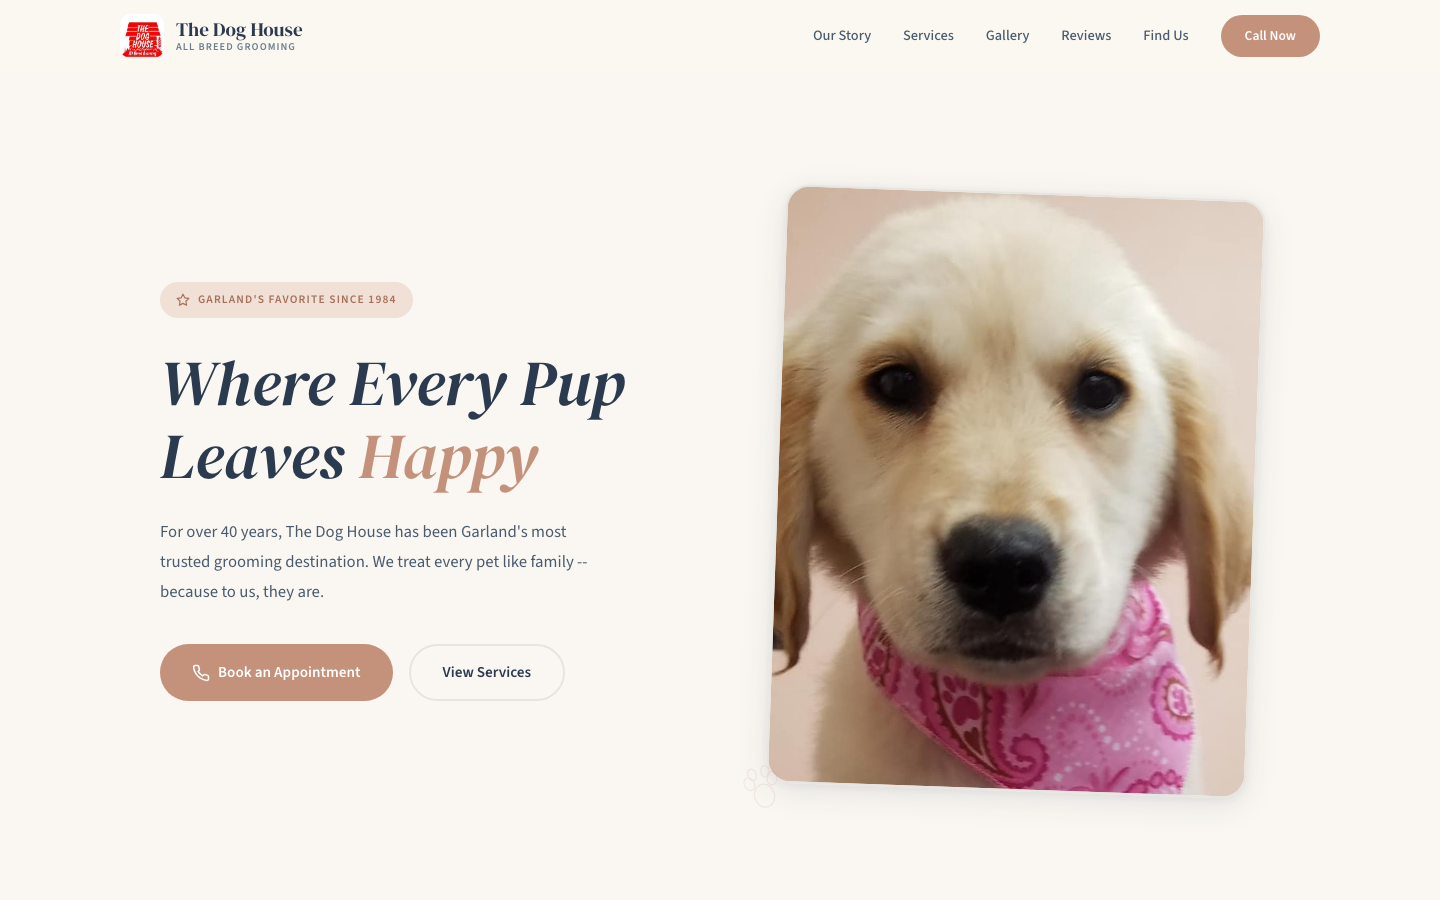
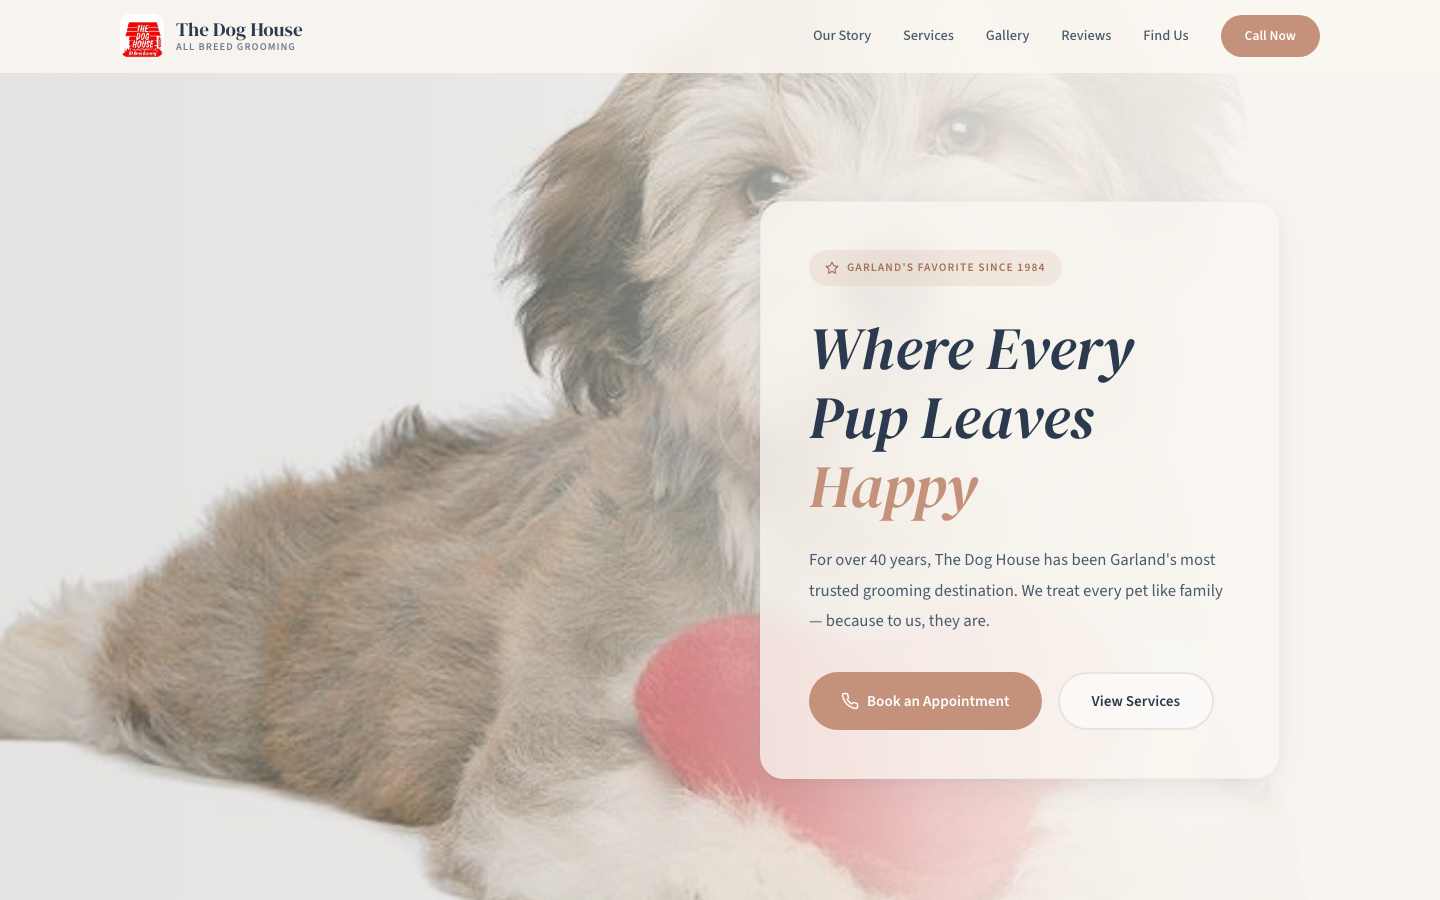
Heritage Bloom: full-bleed hero with dog-with-heart background image
Replaced the text-left/image-right hero layout with a full-viewport
background image of the dog with heart, slightly muted with a gradient
overlay. Text is positioned on the right side in a frosted glass card,
keeping the dog's face fully visible on the left. This differentiates
Heritage Bloom from the other two concepts which share the same
split-layout hero pattern.

diff --git a/docs/doghouse/heritage-bloom/index.html b/docs/doghouse/heritage-bloom/index.html
@@ -287,25 +287,64 @@
            HERO
            ======================================== */
         .hero {
-            padding-top: calc(80px + var(--section-padding));
-            padding-bottom: var(--section-padding);
-            background: var(--ivory);
+            position: relative;
+            min-height: 100vh;
+            display: flex;
+            align-items: center;
             overflow: hidden;
         }
-        .hero__grid {
-            display: grid;
-            grid-template-columns: 1fr 1fr;
-            gap: clamp(2rem, 5vw, 4rem);
-            align-items: center;
+        .hero__bg {
+            position: absolute;
+            inset: 0;
+            z-index: 0;
+        }
+        .hero__bg img {
+            width: 100%;
+            height: 100%;
+            object-fit: cover;
+            object-position: left center;
+            filter: brightness(0.88) saturate(0.85);
+        }
+        .hero__bg::after {
+            content: '';
+            position: absolute;
+            inset: 0;
+            background: linear-gradient(
+                to right,
+                rgba(250, 247, 242, 0.15) 0%,
+                rgba(250, 247, 242, 0.3) 30%,
+                rgba(250, 247, 242, 0.55) 50%,
+                rgba(250, 247, 242, 0.8) 65%,
+                rgba(250, 247, 242, 0.92) 80%
+            );
+        }
+        .hero__container {
+            position: relative;
+            z-index: 1;
+            width: 100%;
+            max-width: 1200px;
+            margin: 0 auto;
+            padding: calc(80px + 3rem) clamp(1.25rem, 4vw, 2.5rem) 3rem;
+            display: flex;
+            justify-content: flex-end;
         }
         .hero__content {
             max-width: 520px;
+            background: rgba(250, 247, 242, 0.75);
+            backdrop-filter: blur(12px);
+            -webkit-backdrop-filter: blur(12px);
+            border-radius: 24px;
+            padding: clamp(2rem, 4vw, 3rem);
+            border: 1px solid rgba(232, 228, 223, 0.6);
+            box-shadow:
+                0 8px 32px rgba(43, 58, 78, 0.08),
+                0 2px 8px rgba(43, 58, 78, 0.04);
         }
         .hero__badge {
             display: inline-flex;
             align-items: center;
             gap: 0.5rem;
-            background: var(--blush);
+            background: rgba(196, 145, 123, 0.15);
             color: var(--rose-deep);
             font-size: 0.72rem;
             font-weight: 600;
@@ -317,7 +356,7 @@
         }
         .hero__headline {
             font-family: var(--font-display);
-            font-size: clamp(2.75rem, 5vw, 4rem);
+            font-size: clamp(2.5rem, 4.5vw, 3.75rem);
             font-style: italic;
             font-weight: 400;
             line-height: 1.15;
@@ -333,7 +372,6 @@
             line-height: 1.8;
             color: var(--navy-soft);
             margin-bottom: 2.25rem;
-            max-width: 440px;
         }
         .hero__ctas {
             display: flex;
@@ -353,6 +391,7 @@
             border-radius: 100px;
             border: none;
             cursor: pointer;
+            text-decoration: none;
             transition: background 0.3s, transform 0.2s, box-shadow 0.3s;
         }
         .btn-primary:hover {
@@ -368,53 +407,18 @@
             font-size: 0.95rem;
             font-weight: 600;
             color: var(--navy);
-            background: transparent;
+            background: rgba(255, 255, 255, 0.5);
             padding: 0.85rem 2rem;
             border-radius: 100px;
             border: 2px solid var(--slate-wash);
             cursor: pointer;
+            text-decoration: none;
             transition: border-color 0.3s, background 0.3s, transform 0.2s;
         }
         .btn-outline:hover {
             border-color: var(--rose-dust);
-            background: rgba(196, 145, 123, 0.06);
+            background: rgba(255, 255, 255, 0.7);
             transform: translateY(-2px);
-        }
-        .hero__image-wrap {
-            position: relative;
-            display: flex;
-            justify-content: center;
-        }
-        .hero__image-frame {
-            position: relative;
-            border-radius: 24px;
-            overflow: hidden;
-            border: 2px solid var(--slate-wash);
-            transform: rotate(2deg);
-            box-shadow:
-                0 8px 32px rgba(43, 58, 78, 0.1),
-                0 2px 8px rgba(43, 58, 78, 0.06);
-            max-width: 480px;
-            transition: transform 0.5s var(--ease-elegant);
-        }
-        .hero__image-frame:hover {
-            transform: rotate(0deg);
-        }
-        .hero__image-frame img {
-            width: 100%;
-            aspect-ratio: 4 / 5;
-            object-fit: cover;
-            object-position: top;
-        }
-        /* Decorative paw near the image */
-        .hero__deco {
-            position: absolute;
-            bottom: -20px;
-            left: -15px;
-            width: 50px;
-            height: 50px;
-            opacity: 0.15;
-            transform: rotate(-15deg);
         }
 
         /* ========================================
@@ -982,7 +986,6 @@
                 transform: none;
                 transition: none;
             }
-            .hero__image-frame,
             .story__image-frame,
             .gallery__item {
                 transform: none !important;
@@ -995,10 +998,6 @@
            RESPONSIVE
            ======================================== */
         @media (max-width: 1024px) {
-            .hero__grid {
-                grid-template-columns: 1fr 1fr;
-                gap: 2.5rem;
-            }
             .services__grid {
                 grid-template-columns: 1fr;
                 gap: 2.5rem;
@@ -1018,21 +1017,17 @@
             .nav__links { display: none; }
             .nav__hamburger { display: flex; }
 
-            .hero__grid {
-                grid-template-columns: 1fr;
-                text-align: center;
+            .hero__container {
+                justify-content: center;
             }
             .hero__content {
                 max-width: 100%;
-                order: 2;
+                text-align: center;
             }
-            .hero__image-wrap { order: 1; }
-            .hero__image-frame {
-                max-width: 340px;
-                margin-inline: auto;
-            }
-            .hero__text { max-width: 100%; }
             .hero__ctas { justify-content: center; }
+            .hero__bg::after {
+                background: rgba(250, 247, 242, 0.7);
+            }
 
             .story__grid {
                 grid-template-columns: 1fr;
@@ -1142,40 +1137,27 @@
 
         <!-- HERO -->
         <section class="hero" aria-label="Welcome to The Dog House">
-            <div class="container">
-                <div class="hero__grid">
-                    <div class="hero__content reveal">
-                        <div class="hero__badge">
-                            <!-- Star icon -->
-                            <svg width="14" height="14" viewBox="0 0 24 24" fill="none" stroke="currentColor" stroke-width="2" stroke-linecap="round" stroke-linejoin="round"><polygon points="12 2 15.09 8.26 22 9.27 17 14.14 18.18 21.02 12 17.77 5.82 21.02 7 14.14 2 9.27 8.91 8.26 12 2"/></svg>
-                            Garland's Favorite Since 1984
-                        </div>
-                        <h1 class="hero__headline">Where Every Pup Leaves <em>Happy</em></h1>
-                        <p class="hero__text">
-                            For over 40 years, The Dog House has been Garland's most trusted grooming destination. We treat every pet like family -- because to us, they are.
-                        </p>
-                        <div class="hero__ctas">
-                            <a href="tel:9726759769" class="btn-primary">
-                                <svg width="18" height="18" viewBox="0 0 24 24" fill="none" stroke="currentColor" stroke-width="2" stroke-linecap="round" stroke-linejoin="round"><path d="M22 16.92v3a2 2 0 0 1-2.18 2 19.79 19.79 0 0 1-8.63-3.07 19.5 19.5 0 0 1-6-6 19.79 19.79 0 0 1-3.07-8.67A2 2 0 0 1 4.11 2h3a2 2 0 0 1 2 1.72c.127.96.361 1.903.7 2.81a2 2 0 0 1-.45 2.11L8.09 9.91a16 16 0 0 0 6 6l1.27-1.27a2 2 0 0 1 2.11-.45c.907.339 1.85.573 2.81.7A2 2 0 0 1 22 16.92z"/></svg>
-                                Book an Appointment
-                            </a>
-                            <a href="#services" class="btn-outline">
-                                View Services
-                            </a>
-                        </div>
+            <div class="hero__bg" aria-hidden="true">
+                <img src="../dog-with-heart.jpg" alt="" loading="eager">
+            </div>
+            <div class="hero__container">
+                <div class="hero__content reveal">
+                    <div class="hero__badge">
+                        <svg width="14" height="14" viewBox="0 0 24 24" fill="none" stroke="currentColor" stroke-width="2" stroke-linecap="round" stroke-linejoin="round"><polygon points="12 2 15.09 8.26 22 9.27 17 14.14 18.18 21.02 12 17.77 5.82 21.02 7 14.14 2 9.27 8.91 8.26 12 2"/></svg>
+                        Garland's Favorite Since 1984
                     </div>
-                    <div class="hero__image-wrap reveal reveal-delay-1">
-                        <div class="hero__image-frame">
-                            <img src="../dog01.jpg" alt="Golden retriever puppy wearing a pink bandana after a fresh groom at The Dog House" width="480" height="600" loading="eager">
-                        </div>
-                        <!-- Decorative paw print -->
-                        <svg class="hero__deco" viewBox="0 0 60 60" fill="none" aria-hidden="true">
-                            <ellipse cx="30" cy="42" rx="12" ry="14" stroke="var(--rose-dust)" stroke-width="1.5" fill="none"/>
-                            <ellipse cx="16" cy="24" rx="6" ry="8" stroke="var(--rose-dust)" stroke-width="1.5" fill="none" transform="rotate(-15 16 24)"/>
-                            <ellipse cx="44" cy="24" rx="6" ry="8" stroke="var(--rose-dust)" stroke-width="1.5" fill="none" transform="rotate(15 44 24)"/>
-                            <ellipse cx="22" cy="14" rx="5" ry="7" stroke="var(--rose-dust)" stroke-width="1.5" fill="none" transform="rotate(-5 22 14)"/>
-                            <ellipse cx="38" cy="14" rx="5" ry="7" stroke="var(--rose-dust)" stroke-width="1.5" fill="none" transform="rotate(5 38 14)"/>
-                        </svg>
+                    <h1 class="hero__headline">Where Every Pup Leaves <em>Happy</em></h1>
+                    <p class="hero__text">
+                        For over 40 years, The Dog House has been Garland's most trusted grooming destination. We treat every pet like family — because to us, they are.
+                    </p>
+                    <div class="hero__ctas">
+                        <a href="tel:9726759769" class="btn-primary">
+                            <svg width="18" height="18" viewBox="0 0 24 24" fill="none" stroke="currentColor" stroke-width="2" stroke-linecap="round" stroke-linejoin="round"><path d="M22 16.92v3a2 2 0 0 1-2.18 2 19.79 19.79 0 0 1-8.63-3.07 19.5 19.5 0 0 1-6-6 19.79 19.79 0 0 1-3.07-8.67A2 2 0 0 1 4.11 2h3a2 2 0 0 1 2 1.72c.127.96.361 1.903.7 2.81a2 2 0 0 1-.45 2.11L8.09 9.91a16 16 0 0 0 6 6l1.27-1.27a2 2 0 0 1 2.11-.45c.907.339 1.85.573 2.81.7A2 2 0 0 1 22 16.92z"/></svg>
+                            Book an Appointment
+                        </a>
+                        <a href="#services" class="btn-outline">
+                            View Services
+                        </a>
                     </div>
                 </div>
             </div>
